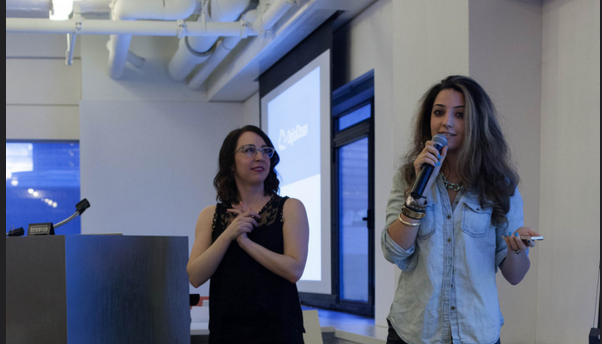
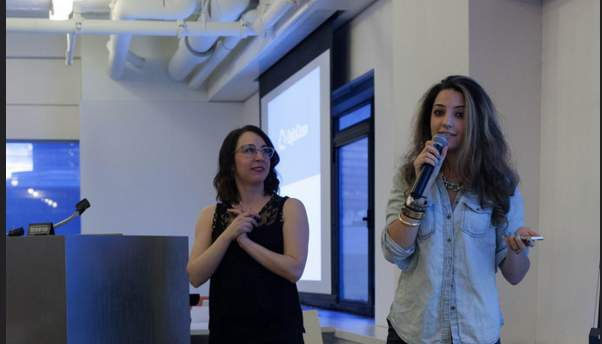
refactor
Includes:

- content fixes
- image compression
- removes extra javascript/jQuery
- sponsor page styling

diff --git a/assets/javascripts/main.js b/assets/javascripts/main.js
@@ -1,47 +1,49 @@
-$(document).ready(function() {
-	mixpanel.track(
-		"Viewed Homepage"
-	);
+mixpanel.track(
+  "Viewed Homepage"
+);
 
-	function getTimeRemaining(endtime) {
-	  var t = Date.parse(endtime) - Date.parse(new Date());
-	  var seconds = Math.floor((t / 1000) % 60);
-	  var minutes = Math.floor((t / 1000 / 60) % 60);
-	  var hours = Math.floor((t / (1000 * 60 * 60)) % 24);
-	  var days = Math.floor(t / (1000 * 60 * 60 * 24));
-	  return {
-	    'total': t,
-	    'days': days,
-	    'hours': hours,
-	    'minutes': minutes,
-	    'seconds': seconds
-	  };
-	}
+function isComplete(time) {
+  return time <= 0;
+}
 
-	function initializeClock(id, endtime) {
-	  var clock = document.getElementById(id);
-	  var daysSpan = clock.querySelector('.days');
-	  var hoursSpan = clock.querySelector('.hours');
-	  var minutesSpan = clock.querySelector('.minutes');
-	  var secondsSpan = clock.querySelector('.seconds');
+function getTimeRemaining(endtime) {
+  var t = Date.parse(endtime) - Date.parse(new Date());
+  var seconds = Math.floor((t / 1000) % 60);
+  var minutes = Math.floor((t / 1000 / 60) % 60);
+  var hours = Math.floor((t / (1000 * 60 * 60)) % 24);
+  var days = Math.floor(t / (1000 * 60 * 60 * 24));
+  return {
+    'total': t,
+    'days': isComplete(t) ? 0 : days,
+    'hours': isComplete(t) ? 0 : hours,
+    'minutes': isComplete(t) ? 0 : minutes,
+    'seconds': isComplete(t) ? 0 : seconds
+  };
+}
 
-	  function updateClock() {
-	    var t = getTimeRemaining(endtime);
+function initializeClock(id, endtime) {
+  var clock = document.getElementById(id);
+  var daysSpan = clock.querySelector('.days');
+  var hoursSpan = clock.querySelector('.hours');
+  var minutesSpan = clock.querySelector('.minutes');
+  var secondsSpan = clock.querySelector('.seconds');
 
-	    daysSpan.innerHTML = t.days;
-	    hoursSpan.innerHTML = ('0' + t.hours).slice(-2);
-	    minutesSpan.innerHTML = ('0' + t.minutes).slice(-2);
-	    secondsSpan.innerHTML = ('0' + t.seconds).slice(-2);
+  function updateClock() {
+    var t = getTimeRemaining(endtime);
 
-	    if (t.total <= 0) {
-	      clearInterval(timeinterval);
-	    }
-	  }
+    daysSpan.innerHTML = t.days;
+    hoursSpan.innerHTML = ('0' + t.hours).slice(-2);
+    minutesSpan.innerHTML = ('0' + t.minutes).slice(-2);
+    secondsSpan.innerHTML = ('0' + t.seconds).slice(-2);
 
-	  updateClock();
-	  var timeinterval = setInterval(updateClock, 1000);
-	}
+    if (isComplete(t.total)) {
+      clearInterval(timeinterval);
+    }
+  }
 
-	var deadline = 'February 10 2016 18:59:59 GMT-05:00';
-	initializeClock('clockdiv', deadline);
-});
+  updateClock();
+  var timeinterval = setInterval(updateClock, 1000);
+}
+
+var deadline = 'February 10 2016 18:59:59 GMT-05:00';
+initializeClock('clockdiv', deadline);

diff --git a/sponsorship.html b/sponsorship.html
@@ -10,20 +10,19 @@ title: ManhattanJS - Sponsorship
   <div class="slide"></div>
   <div class="slide"></div>
   <div class="slide"></div>
-  <div class="slide"></div>
   <a href="https://www.flickr.com/photos/matthewbergman/" target="_blank" class="slideshow-credit">Photos by Matthew Bergman</a>
 </div>
 
 <article class="sponsorship-container">
   <h1>About ManhattanJS</h1>
-  <p>We are a local meetup that is part of the BoroJS group of meetups in NYC (<a href="http://www.brooklynjs.com" target="_blank">BrooklynJS</a>, <a href="http://www.meetup.com/QueensJS/" target="_blank">QueensJS</a>, <a href="http://jerseyscript.github.io/" target="_blank">JerseyScript</a>). We come together on the second Wednesday of every month to learn and connect with other members of the NYC development community.</p>
+  <p>We are a local meetup that is part of the BoroJS group of meetups in NYC (<a href="http://www.brooklynjs.com" target="_blank">BrooklynJS</a>, <a href="http://www.meetup.com/QueensJS/" target="_blank">QueensJS</a>, <a href="http://jerseyscript.github.io/" target="_blank">JerseyScript</a>, and <a href="http://nodebots.nyc" target="_blank">Nodebots NYC</a>). We come together on the second Wednesday of every month to learn and connect with other members of the NYC development community.</p>
 
-  <p>The event commences at 7pm with technical &amp; passion talks, with various arts &amp; entertainment during intermissions, which include an in house DJ and Battledecks. Admission is $10 and comes with food &amp; beer/wine/soda. All proceeds are donated to <a href="https://www.scripted.org/" target="_blank">Script Ed</a> and <a href="http://girldevelopit.com" target="_blank">Girl Develop It.</a></p>
+  <p>The event commences at 7pm with technical &amp; passion talks, with various arts &amp; entertainment during intermissions, which include an in house DJ and Battledecks. Admission is $10 and comes with food &amp; beer/wine/soda. All proceeds are donated to <a href="https://www.scripted.org/" target="_blank">Script Ed.</a></p>
 
   <p>ManhattanJS is organized by
     <a href="https://twitter.com/zeejab" target="_blank">Zahra Jabini</a>,
     <a href="https://twitter.com/copasetickid" target="_blank">Rushaine McBean</a>,
-    <a href="https://twitter.com/brendamarienyc" target="_blank">Brenda Storer</a> and <a href="https://twitter.com/hipsterbrown" target="_blank">Nick Hehr</a>.
+    <a href="https://twitter.com/brendamarienyc" target="_blank">Brenda Storer</a>, and <a href="https://twitter.com/hipsterbrown" target="_blank">Nick Hehr</a>.
   </p>
 
   <h3 class="sponsorship-heading">Sponsorship Packages</h3>

diff --git a/_includes/footer.html b/_includes/footer.html
@@ -1,7 +1,7 @@
 <footer class="footer-container flex-container">
   <div class="wrapper">
     <p class="footer-credits">
-      {{ site.title }} was founded by <a href="https://twitter.com/zeejab" target="_blank">@zeejab</a>, <a href="https://twitter.com/copasetickid" target="_blank">@copasetickid</a> and <a href="https://twitter.com/brendamarienyc" target="_blank">@brendamarienyc</a> in Feb 2014 as Part of NYC BoroJS family of meetups. <br>It is currently being organized by <a href="https://twitter.com/zeejab" target="_blank">@zeejab</a>, <a href="https://twitter.com/copasetickid" target="_blank">@copasetickid</a> and <a href="https://twitter.com/hipsterbrown" target="_blank">@hipsterbrown</a>.
+      {{ site.title }} was founded by <a href="https://twitter.com/zeejab" target="_blank">@zeejab</a>, <a href="https://twitter.com/copasetickid" target="_blank">@copasetickid</a>, and <a href="https://twitter.com/brendamarienyc" target="_blank">@brendamarienyc</a> in Feb 2014 as part of the NYC BoroJS family of meetups. <br>It is currently being organized by <a href="https://twitter.com/zeejab" target="_blank">@zeejab</a>, <a href="https://twitter.com/copasetickid" target="_blank">@copasetickid</a>, and <a href="https://twitter.com/hipsterbrown" target="_blank">@hipsterbrown</a>.
       <br><br>{{ site.title }} expects all speakers and attendees to follow the <a href="http://jsconf.com/codeofconduct.html">JSConf code of conduct</a>.
     </p>
     <p class="pizza-disclaimer">* Sorry, at this time we are not able to accommodate special dietary restrictions.</p>

diff --git a/index.html b/index.html
@@ -61,7 +61,7 @@ layout: home
   <h1>About ManhattanJS</h1>
   <p>ManhattanJS is an NYC meetup celebrating everything about JavaScript (and a lot of things that aren't JavaScript, too). We're part of the BoroJS family of meetups in NYC (<a href="http://www.brooklynjs.com" target="_blank" class="borojs">BrooklynJS</a>, <a href="http://www.meetup.com/QueensJS/" target="_blank" class="borojs">QueensJS</a>, <a href="http://jerseyscript.github.io/" target="_blank" class="borojs">JerseyScript</a> &amp; <a href="http://nodebots.nyc/" target="_blank" class="borojs">NodeBots NYC</a>). We come together on the second Wednesday of every month to learn and connect with other members of the NYC development community.</p>
 
-  <p>The event starts at 7pm and features both technical &amp; passion talks, with various arts &amp; entertainment during intermissions, including an in-house DJ &amp; Battledecks. The price of your ticket helps cover food, dessert, beer, wine &amp; soda*. All proceeds are donated to <a href="https://www.scripted.org/" target="_blank" class="borojs">ScriptEd</a>.</p>
+  <p>The event starts at 7pm, featuring both technical &amp; passion talks, with various arts &amp; entertainment during intermissions, including an in-house DJ &amp; Battledecks. The price of your ticket helps cover food, dessert, beer, wine &amp; soda*. All proceeds are donated to <a href="https://www.scripted.org/" target="_blank" class="borojs">ScriptEd</a>.</p>
   
   <a href="/sponsorship" class="sponsorship flex-container">Interested in being a sponsor?</a>
 </div>

diff --git a/_includes/sponsors/feb-2016.html b/_includes/sponsors/feb-2016.html
@@ -1,4 +1,4 @@
 <div class="flex-container timeline-clozer">
   This month’s {{site.title}} is generously sponsored by: &nbsp;
-  <a href="https://www.digitalocean.com/" class="external-link" target="_blank">Digital Ocean</a>,&nbsp;<a href="https://bocoup.com/" class="external-link" target="_blank"> Bocoup</a>,&nbsp;<a href="https://www.sparkpost.com/" class="external-link" target="_blank">SparkPost</a>&nbsp;and&nbsp;<a href="https://www.twilio.com/" class="external-link" target="_blank">Twilio</a>
+  <a href="https://www.digitalocean.com/" class="external-link" target="_blank">Digital Ocean</a>,&nbsp;<a href="https://bocoup.com/" class="external-link" target="_blank"> Bocoup</a>,&nbsp;<a href="https://www.sparkpost.com/" class="external-link" target="_blank">SparkPost</a>,&nbsp;and&nbsp;<a href="https://www.twilio.com/" class="external-link" target="_blank">Twilio</a>
 </div>

diff --git a/_sass/_sponsorship.scss b/_sass/_sponsorship.scss
@@ -1,8 +1,9 @@
 .sponsorship-container {
   color: $dark-blue;
+  font-size: 1.5rem;
   margin: 3em auto;
   max-width: 700px;
-  padding: 0 1em;
+  padding: 0 1em 2em;
 
   h1 {
     font-family: $header-font;
@@ -12,7 +13,7 @@
 
   h4 {
     margin-top: 2em;
-    margin-bottom: 0;
+    margin-bottom: 0.5em;
   }
 
   p a {
@@ -25,7 +26,7 @@
 }
 
 .sponsorship-heading {
-  margin-top: 2em;
+  margin: 2em 0 1em;
 }
 
 .sponsorship-pricing {
@@ -41,7 +42,7 @@
   margin: 0 0.75em;
   text-align: center;
   background: $light-blue;
-  padding: 20px;
+  padding: 20px 0px;
   border-radius: 3px;
   width: 145px;
 
@@ -55,6 +56,6 @@
 .sponsorship-price {
   font-size: 2.25em;
   font-weight: bold;
-  margin: 0.25em 0;
+  margin: 0.25em auto;
   color: $red;
 }

diff --git a/_includes/speakers/speaker-list-2016-02.html b/_includes/speakers/speaker-list-2016-02.html
@@ -26,7 +26,7 @@
         </a>
       <p class="speaker-sub-info">CTO at HoodQReports/Organizer of TorontoJS</p>
       <p class="speaker-talk-title">Routing Like It's 1999</p>
-      <time>8:20pm</time>
+      <time>7:30pm</time>
     </div>
   </div>
 
@@ -74,7 +74,7 @@
       </a>
       <p class="speaker-sub-info">Creator of jQuery</p>
       <p class="speaker-talk-title">Less is More: Making Khan Academy Load Faster</p>
-      <time>7:30pm</time>
+      <time>8:20pm</time>
     </div>
   </div>
 

diff --git a/_includes/javascript.html b/_includes/javascript.html
@@ -1,6 +1,3 @@
-<script>window.jQuery || document.write('<script src="assets/javascripts/vendor/jquery-2.1.0.min.js"><\/script>')</script>
-<script src="assets/javascripts/animations.js"></script>
-<script src="assets/javascripts/main.js"></script>
 <!-- Google Analaytics -->
 <script>
   if (window.location.host === "manhattanjs.com") {
@@ -19,3 +16,4 @@
 mixpanel.init("faf763d62ff0a60491a25c2f645bdb2f");
 </script>
 <!-- end Mixpanel -->
+<script src="assets/javascripts/main.js"></script>
